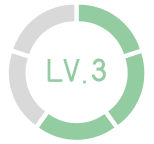
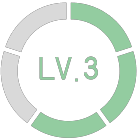
css 수정 및 이미지 크기 맞추기, 로딩 수정

diff --git a/client/src/components/views/Results/Result.css b/client/src/components/views/Results/Result.css
@@ -165,6 +165,7 @@
     border-radius: 5px;
     text-align: center;
     border: 0px;
+    padding: 16px 0px;
 }
 
 .AllTypesButton {
@@ -255,7 +256,7 @@
 
 
     .ResultText {
-        font-size: 17px; 
+        font-size: 17px;
         /* margin: 10px; */
     }
 
@@ -301,6 +302,7 @@
         margin: 0 auto;
         margin-bottom: 15px;
         font-size: 23px;
+        padding: 15px 0px;
     }
 
     .ReTestButton {
@@ -364,6 +366,7 @@
         width: 85%;
         height: 45px;
         font-size: 15px;
+        padding: 14px 0px;
     }
 
     .ReTestButton {

diff --git a/client/src/components/views/Results/Result.js b/client/src/components/views/Results/Result.js
@@ -43,7 +43,7 @@ function Result() {
         // });
 
         $(document).ready(function () {
-            $('#loading').hide();
+            setTimeout(function () { $('#loading').hide() }, 4500);
         });
         return (
             <div className="ResultPage">

diff --git a/client/src/components/views/Results/ResultOthers.css b/client/src/components/views/Results/ResultOthers.css
@@ -23,7 +23,7 @@
 }
 
 .ShareText span {
-    margin: 10px 0px 0px 10px;
+    margin: 13px 0px 0px 10px;
     font-size: 20px;
     text-align: center;
     color: black;
